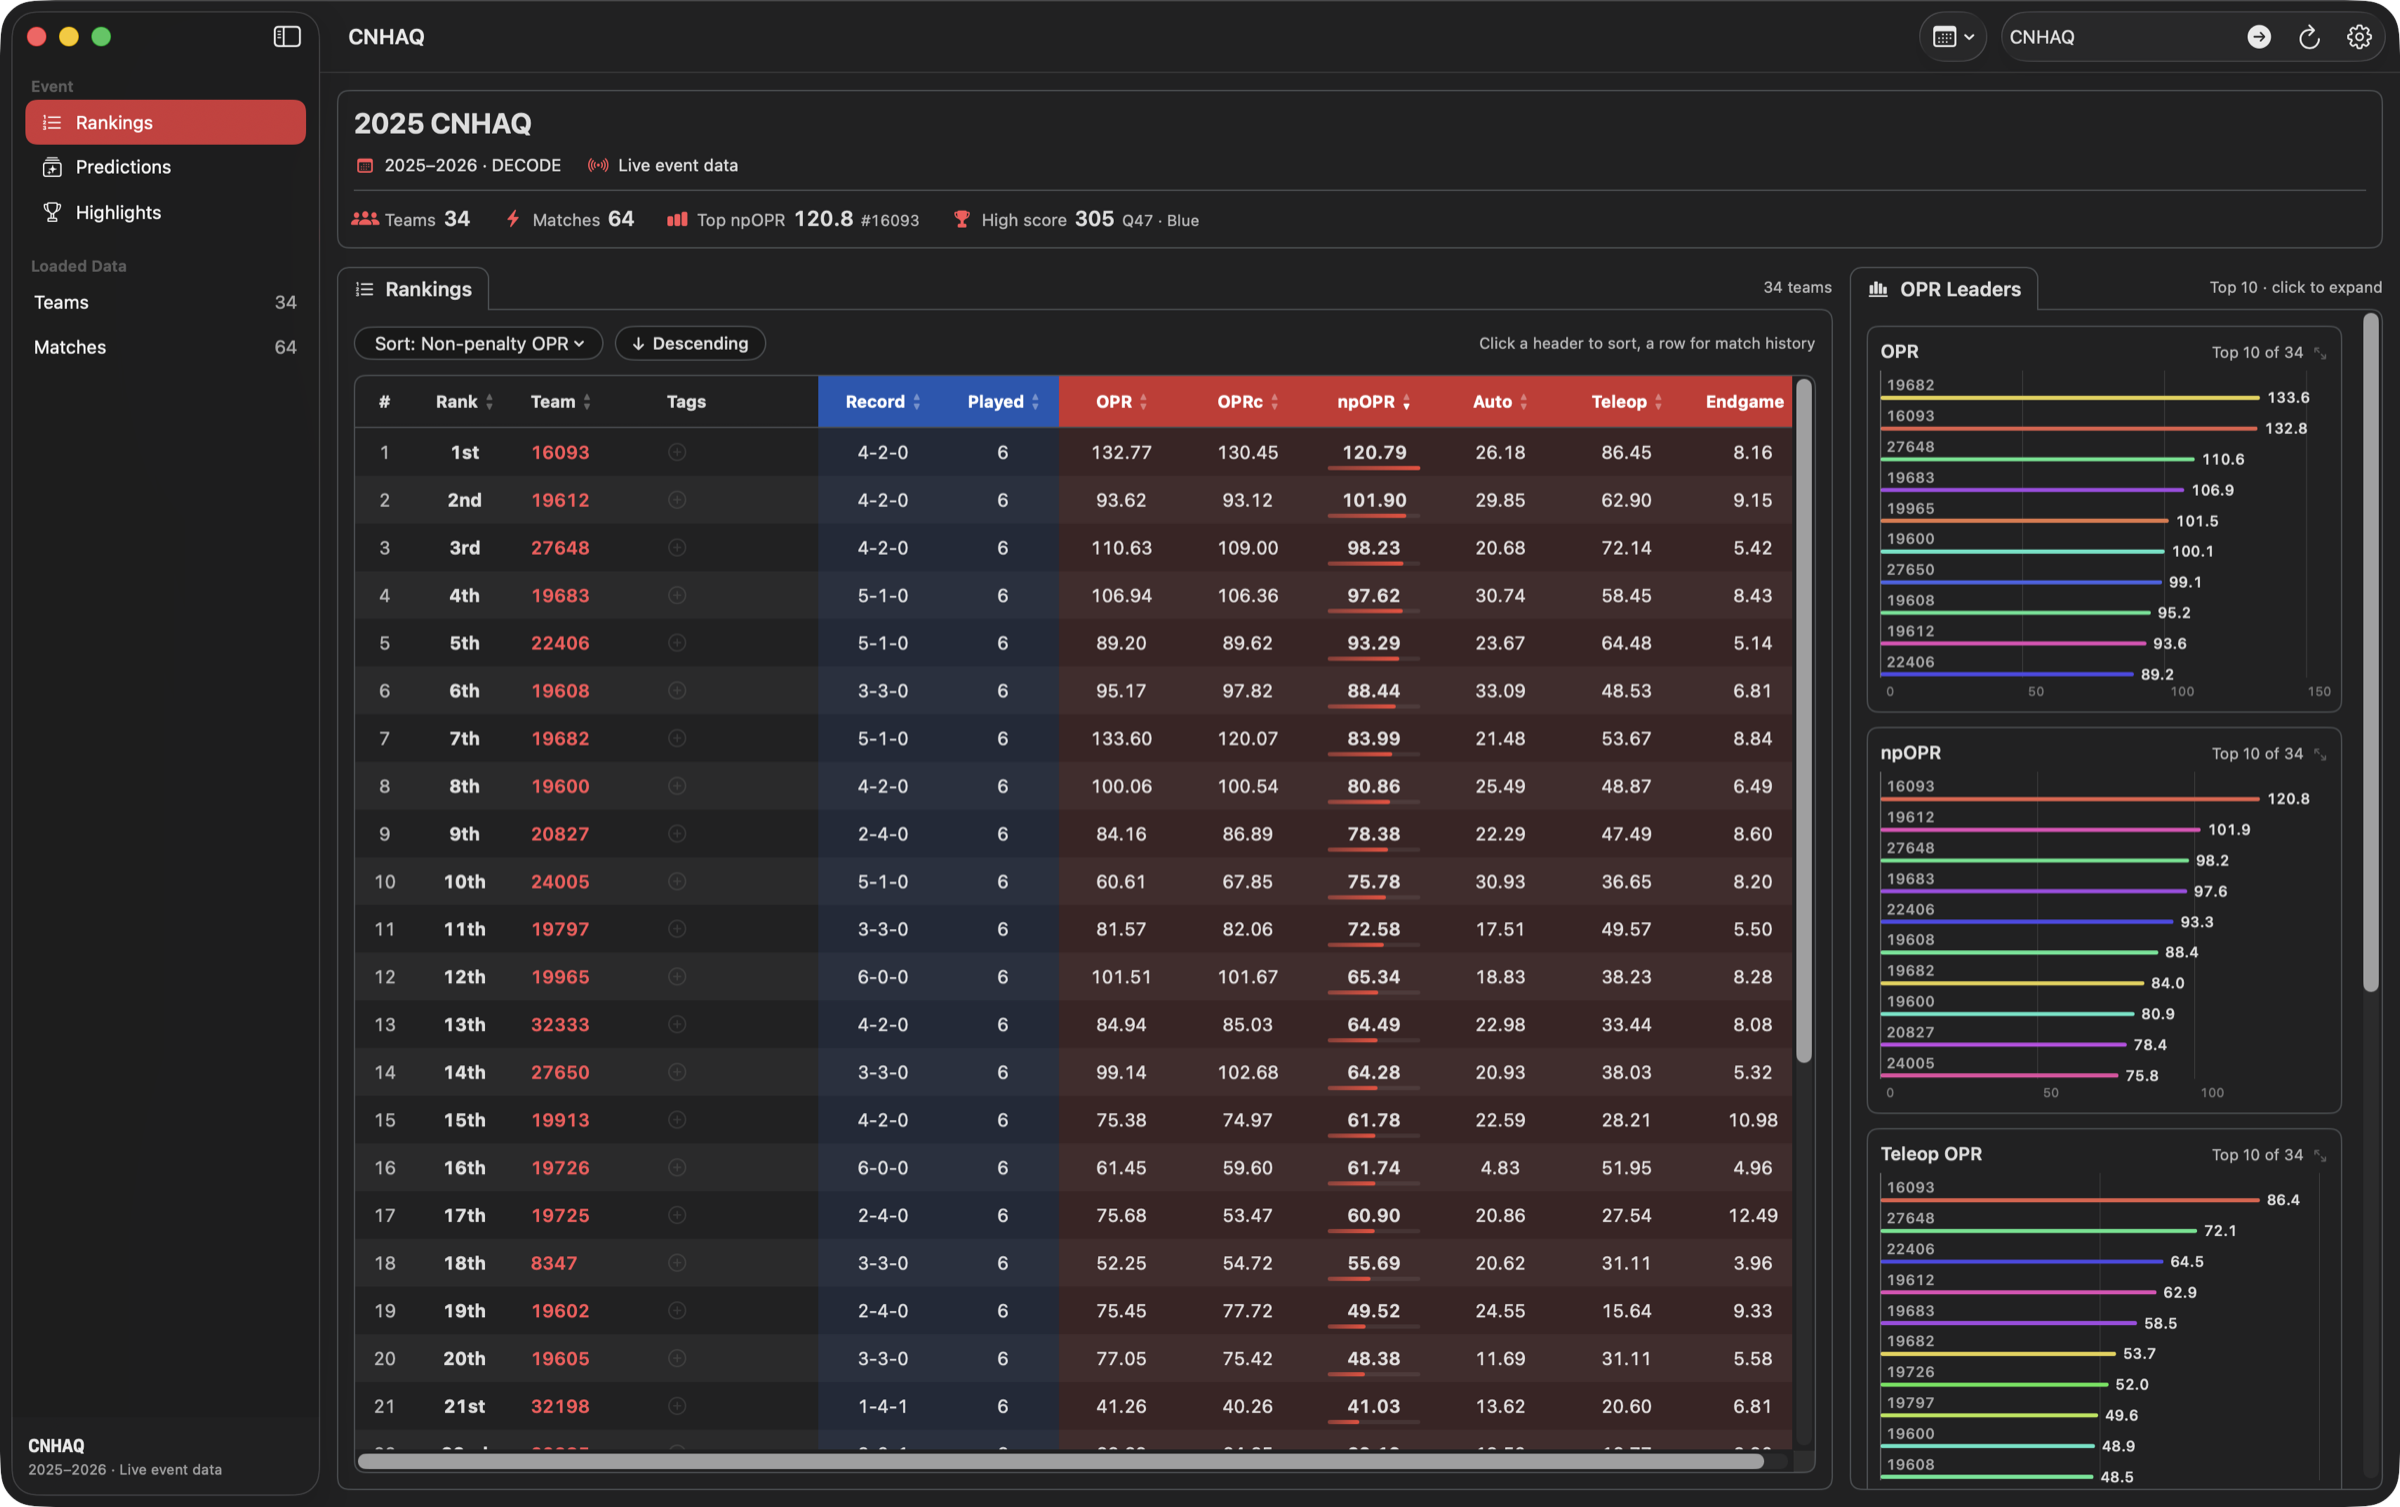
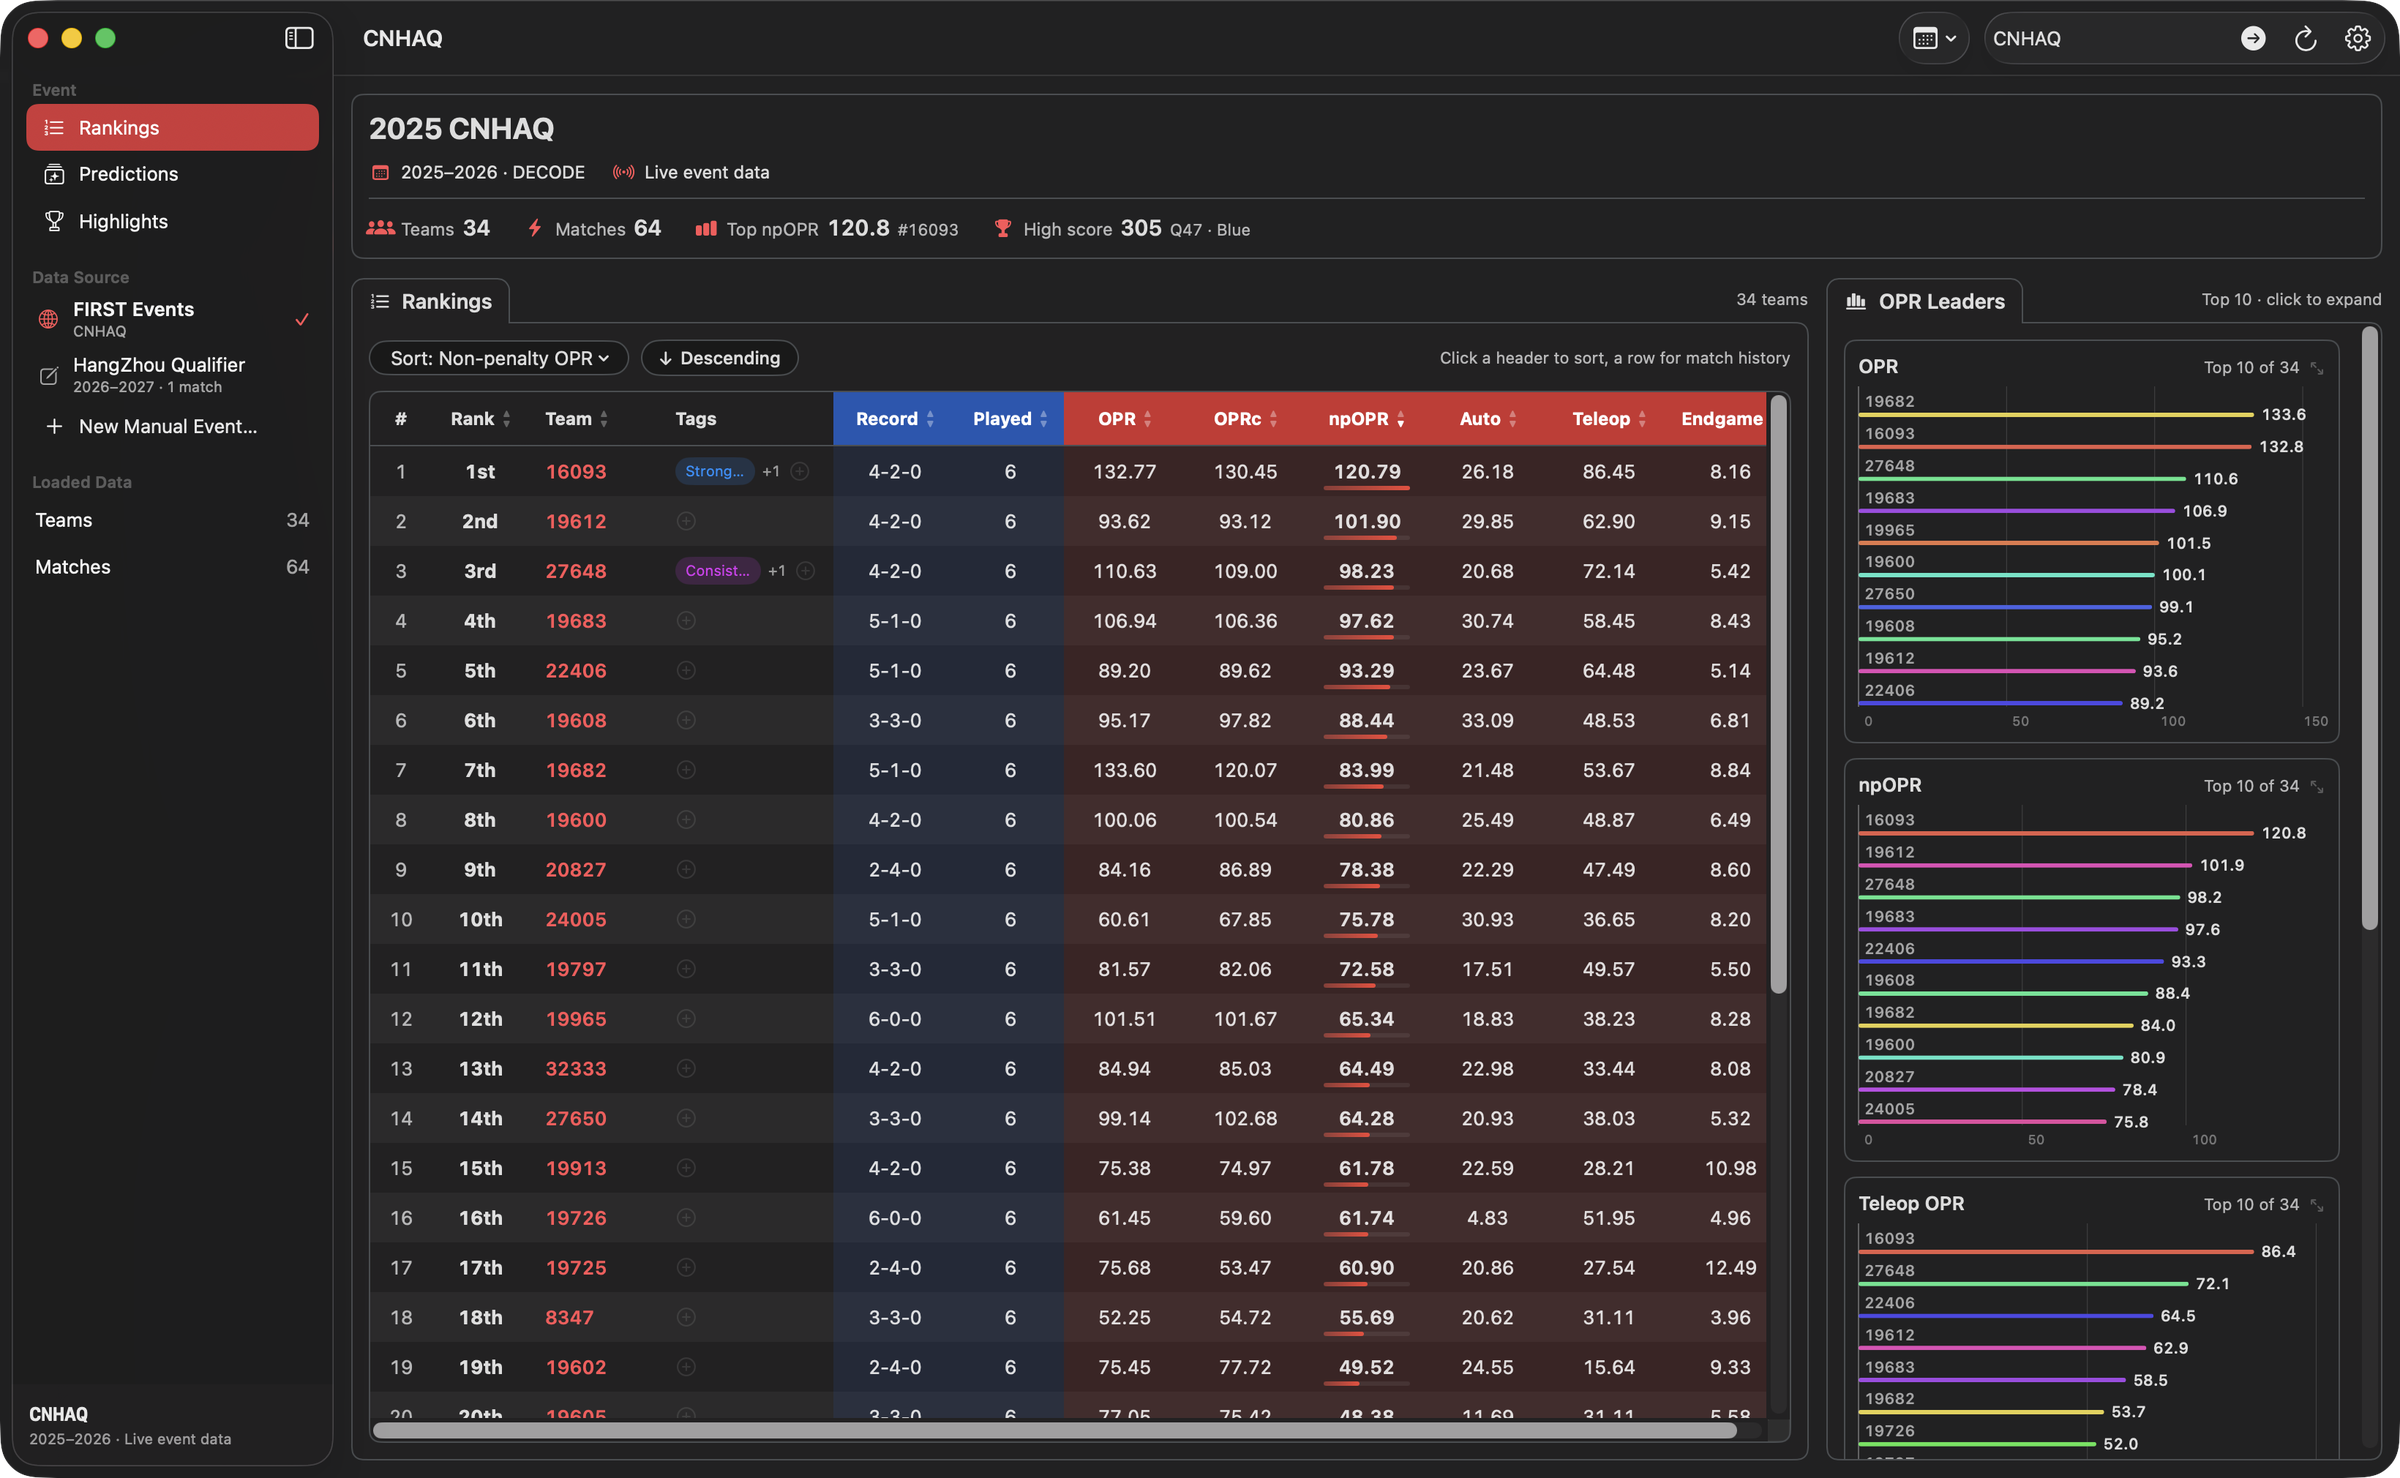
Illustrate every feature in the README
Add a feature tour with current screenshots of Rankings, the single-metric
and full-event charts, team match history, score breakdowns, scouting tags,
Highlights, scheduled and custom predictions, pre-event previews, manual
match entry, and Settings. Refresh the hero capture with tags.

diff --git a/README.md b/README.md
@@ -13,11 +13,11 @@
 </p>
 
 <p align="center">
-  <img src="docs/assets/app-demo.png" width="1100" alt="FTC Event Scout showing a sortable event ranking table beside color-coded OPR bar charts">
+  <img src="docs/assets/app-demo.png" width="1100" alt="FTC Event Scout showing the CNHAQ ranking table with color-grouped columns, scouting tags, and stacked top-10 OPR charts">
 </p>
 
 <p align="center">
-  <sub>Live rankings and color-coded OPR comparisons for every team at an event.</sub>
+  <sub>Live rankings, scouting tags, and color-coded OPR comparisons for every team at an event.</sub>
 </p>
 
 **FTC Event Scout** is a native **macOS scouting app** for exploring FIRST Tech Challenge events. It combines live rankings, comparative OPR charts, score highlights, team match history, detailed score breakdowns, and locally stored scouting tags in a SwiftUI interface.
@@ -42,30 +42,108 @@
 
 ## Feature tour
 
-### Compare every OPR metric at a glance
+The screenshots below use the 2025–2026 DECODE event CNHAQ, a 2026–2027 BIOBUZZ preview, and a BIOBUZZ manual practice event.
 
-The Rankings view keeps the sortable team table and five compact bar charts visible together. Direct value labels make the charts readable without hovering, while stable team colors make it easier to follow the same team from OPR to npOPR, Auto, Teleop, and Endgame.
+### Rankings and OPR leaders
 
-Click a table header (or use the **Sort** menu) to change the ranking, then click any chart to move from its top-10 summary to the complete event field.
+The Rankings view keeps the sortable team table and the OPR Leaders panel side by side. The event header above them shows the season, game, and data mode, then team and match counts, the top npOPR team, and the event's high score.
 
-Prefer a single, larger chart? Choose **Single Metric** under **Settings → General → Rankings**. The panel then shows a segmented metric switcher, the leader with the field average, and every team's bar for the selected metric. **All Metrics** restores the stacked cards.
+Click a table header (or use the **Sort** menu) to rank teams by official rank, team number, record, matches played, OPR, OPRc, npOPR, Auto, Teleop, or Endgame; click it again to reverse the order. The sorted column draws a scale bar under each value, sized against the column leader. Blue columns hold record and match counts, red columns hold OPR metrics, and every team keeps the same chart color across all five metrics.
 
-### Open a complete event chart
+By default the OPR Leaders panel stacks a top-10 chart for every metric, as in the screenshot at the top of this page. Choose **Single Metric** under **Settings → General → Rankings** for one larger chart instead: a segmented OPR / npOPR / Tele / Auto / End switcher, the leader with the field average, and a bar for every team.
 
 <p align="center">
-  <img src="docs/assets/opr-all-teams.png" width="720" alt="All-team npOPR chart ordered from the highest value at the top to the lowest value at the bottom">
+  <img src="docs/assets/rankings-single-metric.png" width="900" alt="Rankings view with the Single Metric chart showing npOPR for all 34 CNHAQ teams, led by team 16093 at 120.8 against a 56.7 field average">
 </p>
 
-The expanded chart includes every team with available data, exact values, negative-value handling, and the same cross-metric team colors used in the compact charts.
+<p align="center">
+  <sub>Single Metric layout: one metric at a time, with the leader, the field average, and the full field.</sub>
+</p>
 
-### Follow a typical scouting workflow
+### Full-event chart
+
+Click any compact chart to open it full size. The expanded chart lists every team with a value, from highest at the top to lowest at the bottom, with exact values and negative-value handling.
+
+<p align="center">
+  <img src="docs/assets/opr-all-teams.png" width="600" alt="All-team npOPR chart ordered from the highest value at the top to the lowest value at the bottom">
+</p>
+
+### Team match history
+
+Click a team's row to open its match history. The top of the sheet shows the team's OPR, OPRc, matches used, and outliers removed, with the residual IQR details one click away. Below it, every match the team played lists both alliances, their final and non-penalty scores, the winner, and whether the selected team (marked with a crosshair) won or lost. The event W-L-T record is in the section header.
+
+<p align="center">
+  <img src="docs/assets/team-match-history.png" width="640" alt="Team 16093 match history showing OPR 132.77, OPRc 130.45, a 5-4-0 record, and qualification matches 4 and 16 with alliance scores and winners">
+</p>
+
+### Score breakdowns
+
+Expand **Score Breakdown** under a match to compare Red and Blue by the season's own scoring categories, grouped into Auto, Teleop, Endgame, and penalties. In each numeric row the higher value is emphasized, so the swing between alliances is easy to spot. Breakdowns cover every season from SKYSTONE through BIOBUZZ.
+
+<p align="center">
+  <img src="docs/assets/score-breakdown.png" width="640" alt="DECODE score breakdown for qualification 4 comparing Red and Blue classified artifacts, classifier states, leave, artifact, and pattern points">
+</p>
+
+### Scouting tags
+
+Click the tag button in a team's row to record traits such as `Strong Auto`, `Consistent`, or `Watch Defense`. Each tag has a color. Tags already used at the event appear under **Reuse an Event Tag**, so one click applies the same tag to another team. Tags show in the Rankings table, Highlights, and match history, and they are stored only on your Mac.
+
+<p align="center">
+  <img src="docs/assets/team-tags.png" width="460" alt="Tag editor for team 27648 with Consistent and Watch Defense tags, reusable event tags, and a new-tag form with a color picker">
+</p>
+
+### Highlights
+
+**Highlights** in the sidebar surfaces the event's highest final, non-penalty, Auto, and Teleop alliance scores. Each card names the match, the alliance, and its teams with their tags, and calls out ties.
+
+<p align="center">
+  <img src="docs/assets/highlights.png" width="900" alt="Highlights for CNHAQ: a 305-point final score in Q47, a 229-point non-penalty score, a 61-point auto score tied by two alliances, and a 171-point teleop score">
+</p>
+
+### Match predictions
+
+**Predictions** forecasts every unplayed match on the schedule from OPRc, a residual-filtered OPR (see [OPRc match predictions](#oprc-match-predictions) below for the method). Each forecast shows both alliances' team OPRc values, the predicted scores, the favored alliance, the signed margin, and a data-quality status.
+
+<p align="center">
+  <img src="docs/assets/predictions-upcoming.png" width="900" alt="Predictions page with the OPRc model summary and scheduled qualification 13 and 14 forecasts, with Red favored by 70.8 in qualification 13">
+</p>
+
+<p align="center">
+  <sub>Scheduled matches are forecast as soon as completed matches give every team an OPRc.</sub>
+</p>
+
+You can also enter any two Red and two Blue team numbers under **Custom Match Prediction** to forecast a hypothetical matchup, such as a possible playoff alliance.
+
+<p align="center">
+  <img src="docs/assets/predictions-custom.png" width="900" alt="Custom match prediction pairing 16093 and 19612 against 27648 and 19683, predicting Red by 8.2 with scores of 223.6 to 215.4">
+</p>
+
+### Pre-event previews
+
+When an event has no matches yet, loading its code shows a historical preview. The table lists each registered team's highest OPR from previous seasons on FTCScout, the season it was set, the last three seasons' values, and the rookie year. The header counts teams and rookies and shows the peak and average peak OPR.
+
+<p align="center">
+  <img src="docs/assets/pre-event-preview.png" width="900" alt="Historical preview of the 2026 High Country – Flagstaff Qualifier listing 20 registered teams by highest prior-season OPR, led by team 18291 at 128.13 from 2024">
+</p>
+
+### Settings and in-app updates
+
+**Settings → General** controls whether the last event code is remembered, picks the OPR Leaders layout, and clears cached event data. **FIRST API** stores your FIRST Events username and token. **Updates** shows the installed version and checks for, downloads, and verifies new releases through Sparkle 2, with optional automatic checks and installation on quit.
+
+<p align="center">
+  <img src="docs/assets/settings-general.png" width="400" alt="General settings with the remember-last-event switch, the All Metrics and Single Metric chart layout picker, and event cache storage">
+  &nbsp;
+  <img src="docs/assets/settings-updates.png" width="400" alt="Updates settings showing installed version 1.0.5, automatic check and install switches, and a Check for Updates button">
+</p>
+
+### A typical scouting workflow
 
 1. Select the season in the toolbar and enter the FIRST event code.
 2. Sort the Rankings table by the metric that matters to your scouting question.
-3. Compare the compact graphs or click one to inspect the whole-event distribution.
+3. Compare the compact charts, or click one to see the whole field.
 4. Click a team's row to open its match history, then expand **Score Breakdown** for alliance-level detail.
-5. Use the add-tag control to record traits such as `Strong Auto`, `Consistent`, or `Watch Defense`; reuse the same tag for other teams at that event.
-6. Open **Highlights** in the sidebar to find the matches and alliances behind the event's best scores.
+5. Tag teams with traits like `Strong Auto` or `Watch Defense`, and reuse the same tags across the event.
+6. Open **Highlights** to find the matches behind the event's best scores, and **Predictions** to forecast upcoming matches or possible alliances.
 
 
 ## Manual match entry
@@ -73,6 +151,14 @@ The expanded chart includes every team with available data, exact values, negati
 Use manual events for scrimmages, practice days, or any event whose results are not on FIRST Events yet. Choose **Scout → New Manual Event…** (⇧⌘N), **New Manual Event…** in the sidebar, or **Enter Match Data Manually** on the credentials screen. Pick a name and season; the event is saved in the app's private data on this Mac and survives **Clear cached event data**.
 
 The **Match Data** page lists every match beside an editor for the selected one. Enter the four team numbers, then turn on **Scored** to record the result. Unscored matches act as the schedule, so the Predictions page forecasts them with OPRc. **Next Match** (⌘↩) moves on, adding a match when you reach the end.
+
+<p align="center">
+  <img src="docs/assets/manual-match-data.png" width="900" alt="Match Data page for a BIOBUZZ practice scrimmage listing 16 matches beside the editor for qualification 1, with hive tips, leave and park, pollen and nectar, fouls, and calculated point subtotals for each alliance">
+</p>
+
+<p align="center">
+  <sub>BIOBUZZ matches are entered as field events; every subtotal and the final score are calculated for you.</sub>
+</p>
 
 - **BIOBUZZ** matches record what happened: hive tips, robot leave and park, pollen and nectar left in the hive and garden, each flower's contents from bottom to top, and minor and major fouls. The app calculates every subtotal, the final score, and the Swarm and Pollinator ranking points from the Competition Manual's point values. Any calculated subtotal can be overridden with the pencil button. Choose **Totals Only** for a match when you only know period scores.
 - **Other seasons** record Auto, Driver-Controlled (without endgame), Endgame, and penalty points received; the final score is their sum unless you override it.
